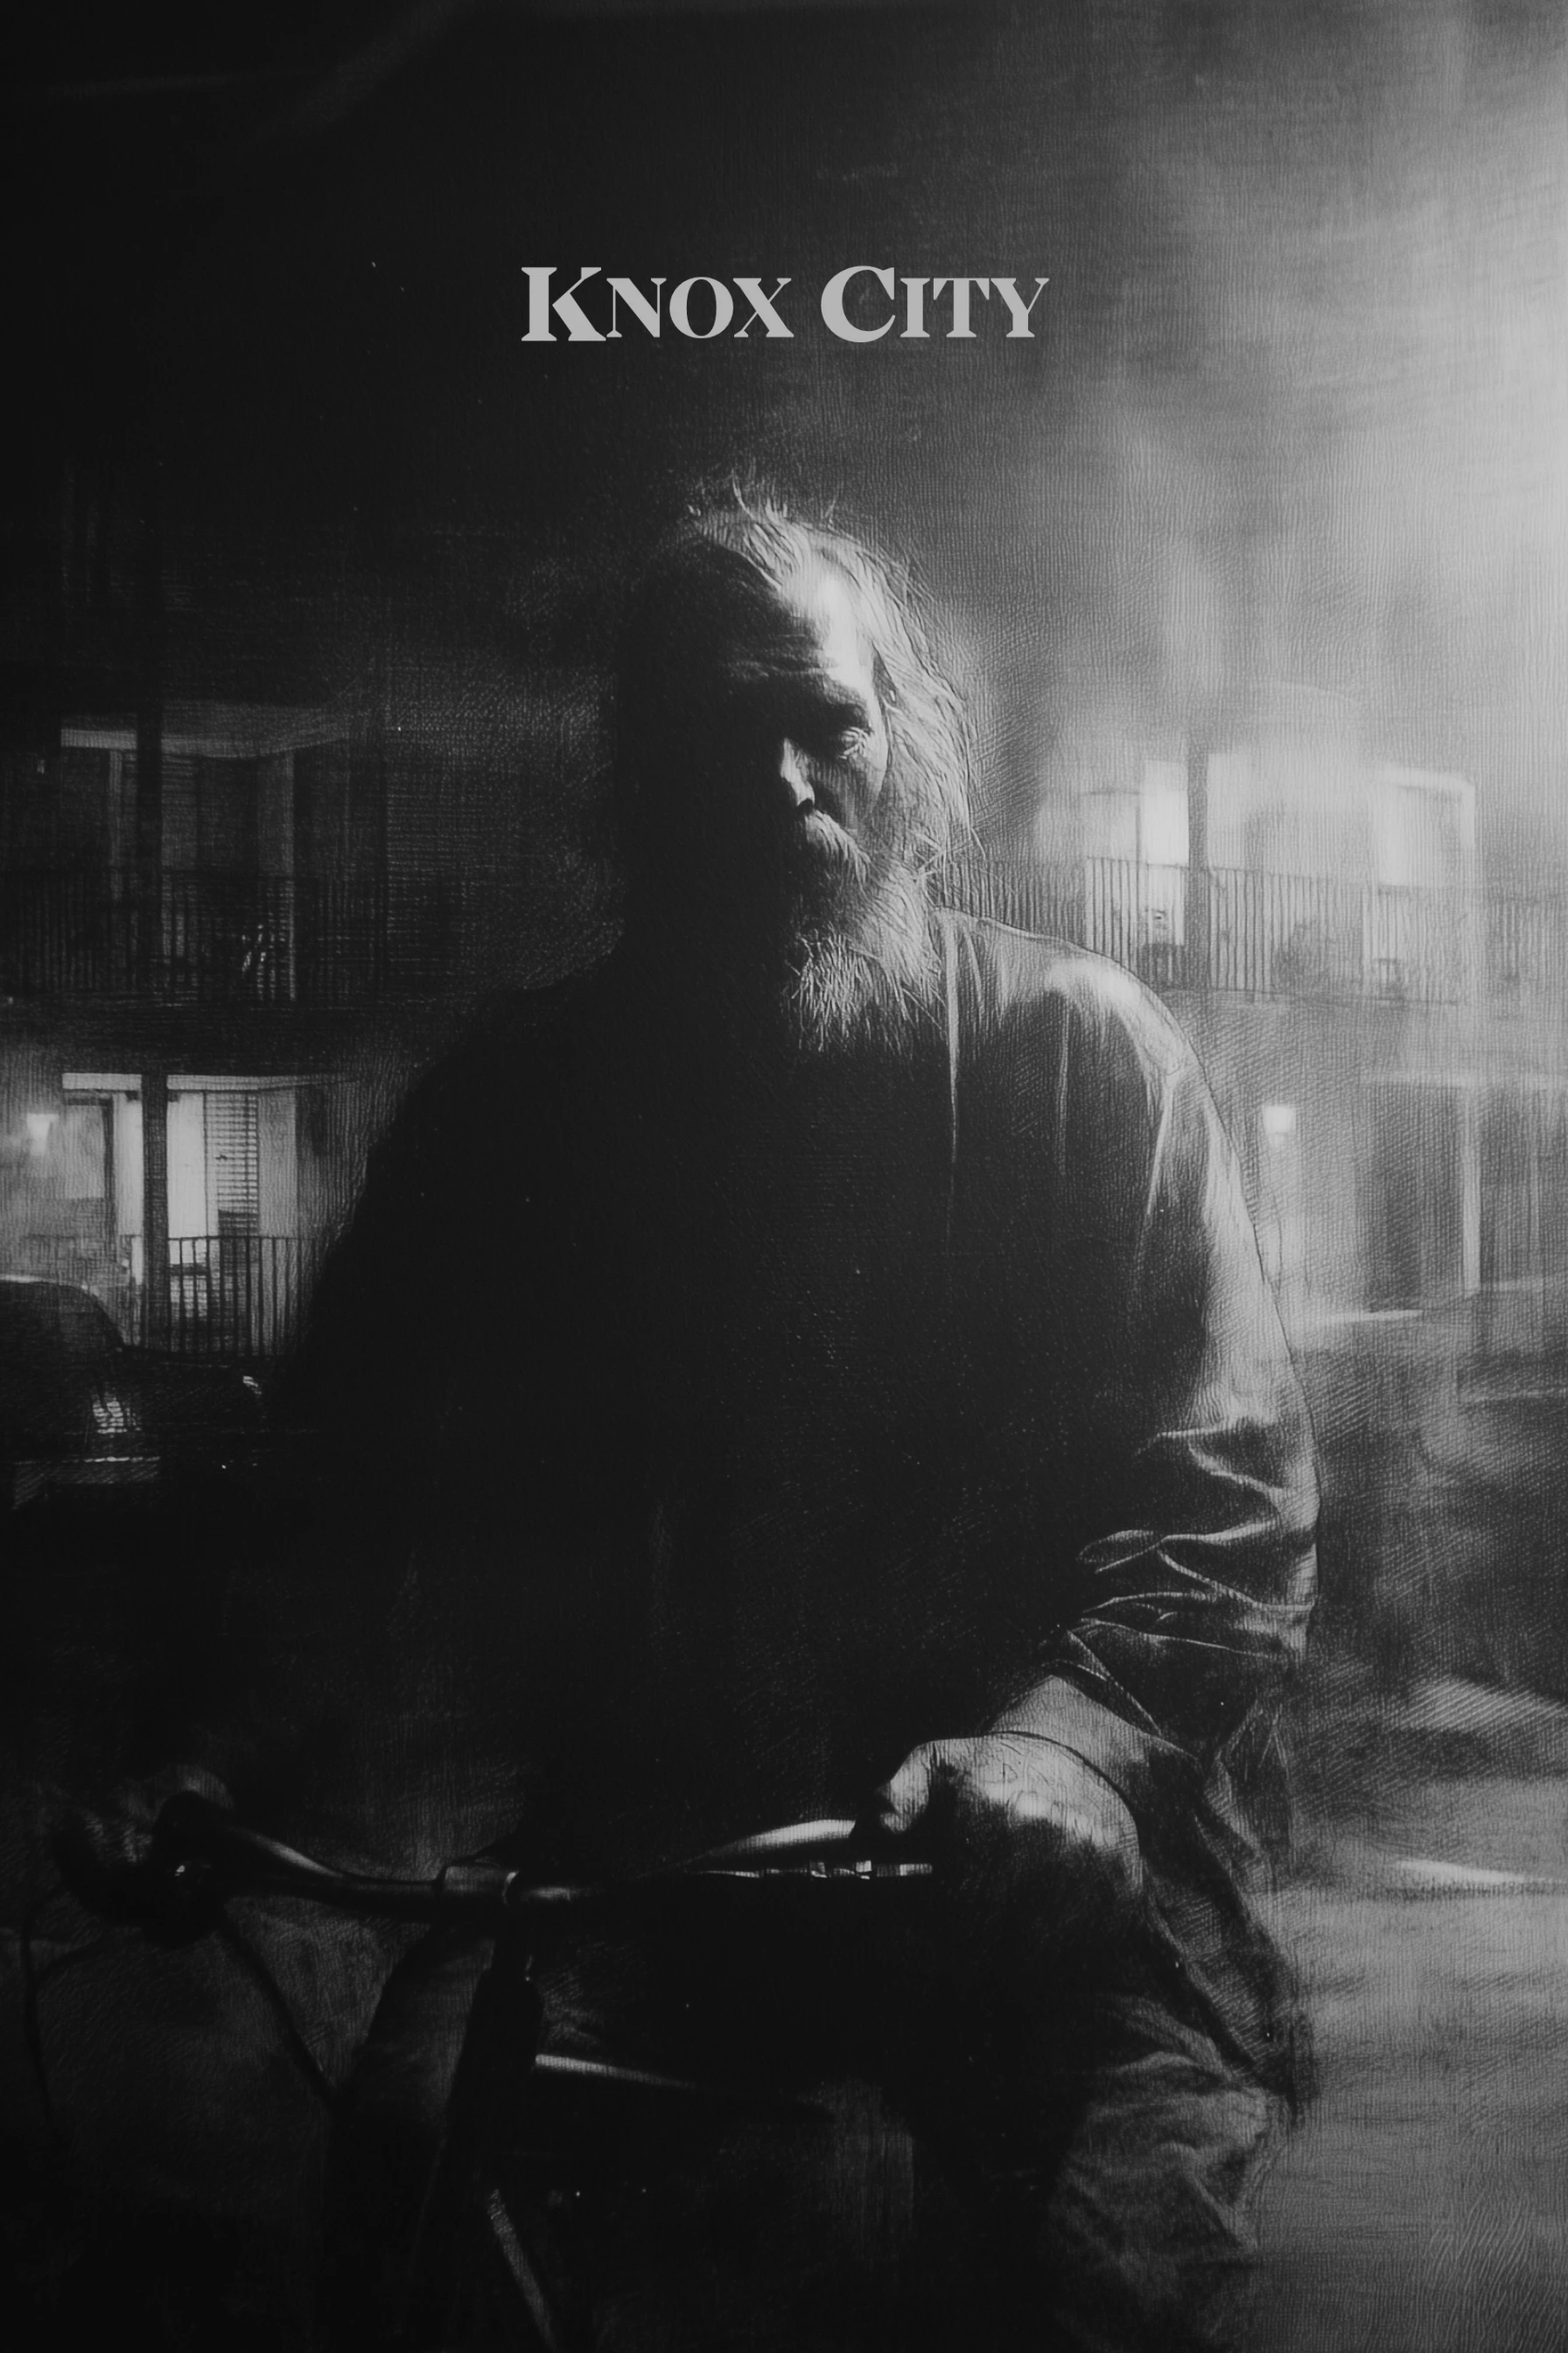
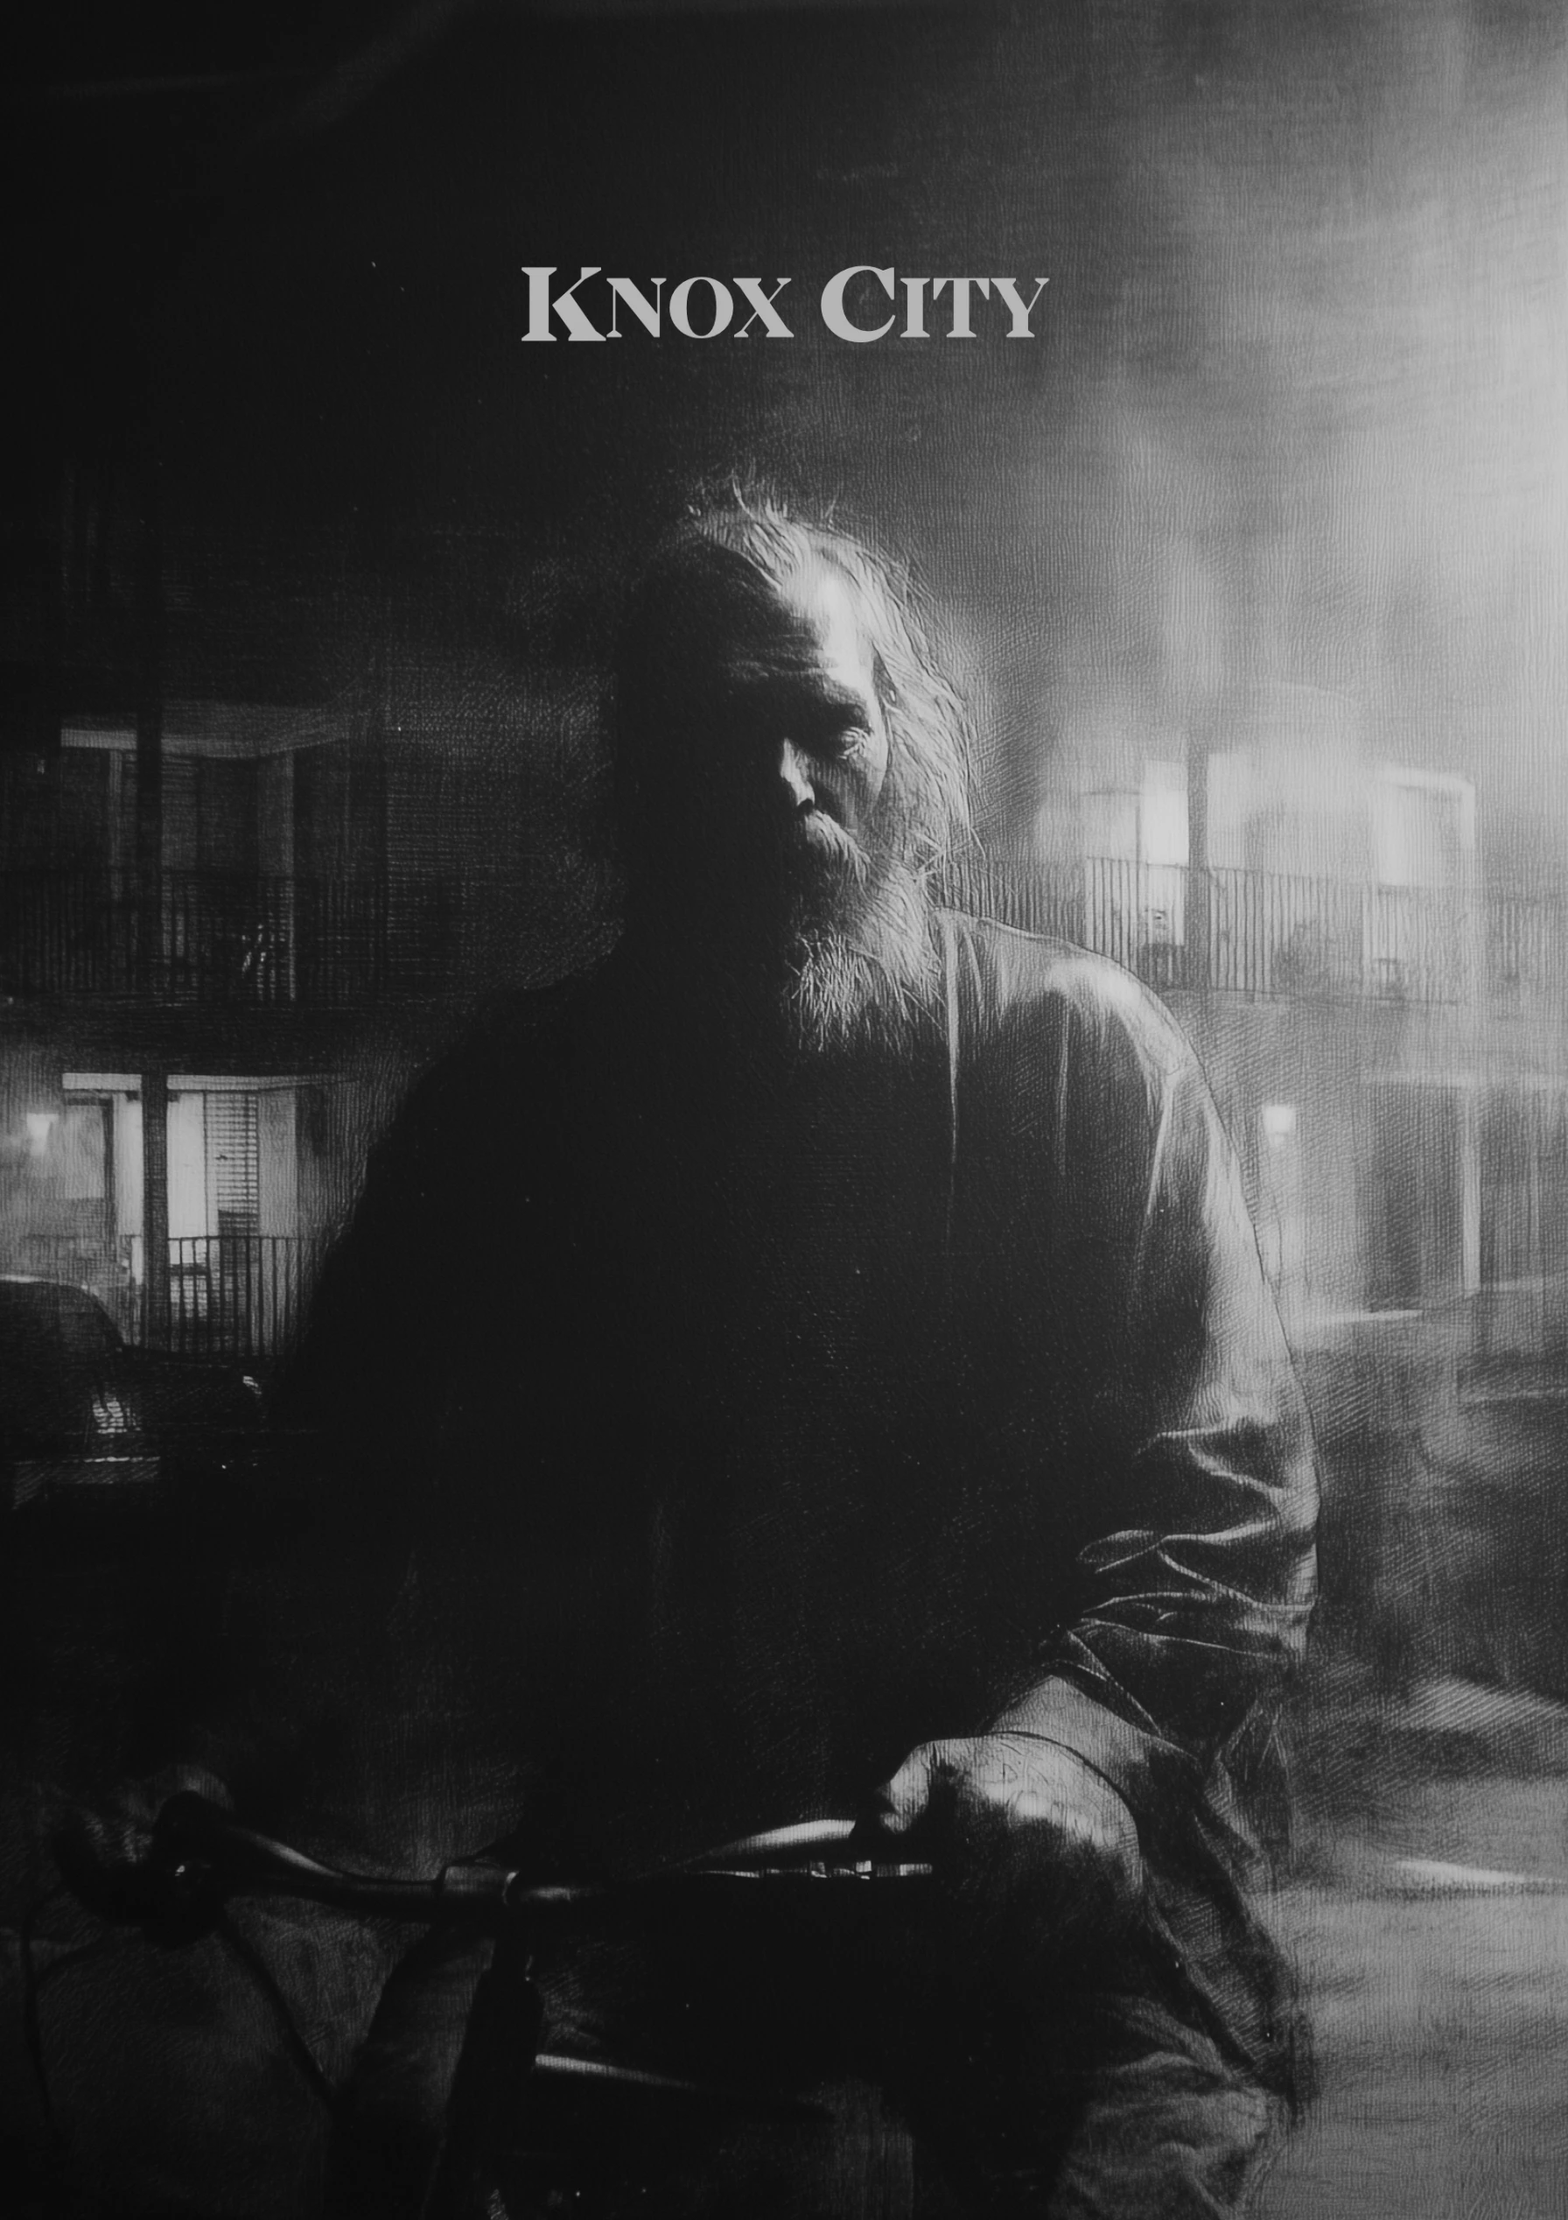
Resize Knox City poster to match grid aspect; drop 'coral' from logline
Crop poster to 0.706 aspect so it renders same height as Jewel/Groundwater
in the narrative grid.

diff --git a/00_site/index.html b/00_site/index.html
@@ -3443,7 +3443,7 @@
             </div>
             <p class="film-modal-type">Feature Screenplay</p>
             <div class="film-modal-divider"></div>
-            <p class="film-modal-logline">A widower spends his final days in a flophouse on the Texas plains, painting his toenails coral between benders.</p>
+            <p class="film-modal-logline">A widower spends his final days in a flophouse on the Texas plains, painting his toenails between benders.</p>
             <a href="01_images/PDFs/Knox City - Screenplay.pdf" target="_blank" class="film-modal-cta">Read Script</a>
             <button class="film-modal-cta pitch-deck-trigger" data-project="Knox City" data-logo="01_images/Logos/knox-city-title-cropped.png">Pitch Deck</button>
             <div class="film-modal-divider"></div>
